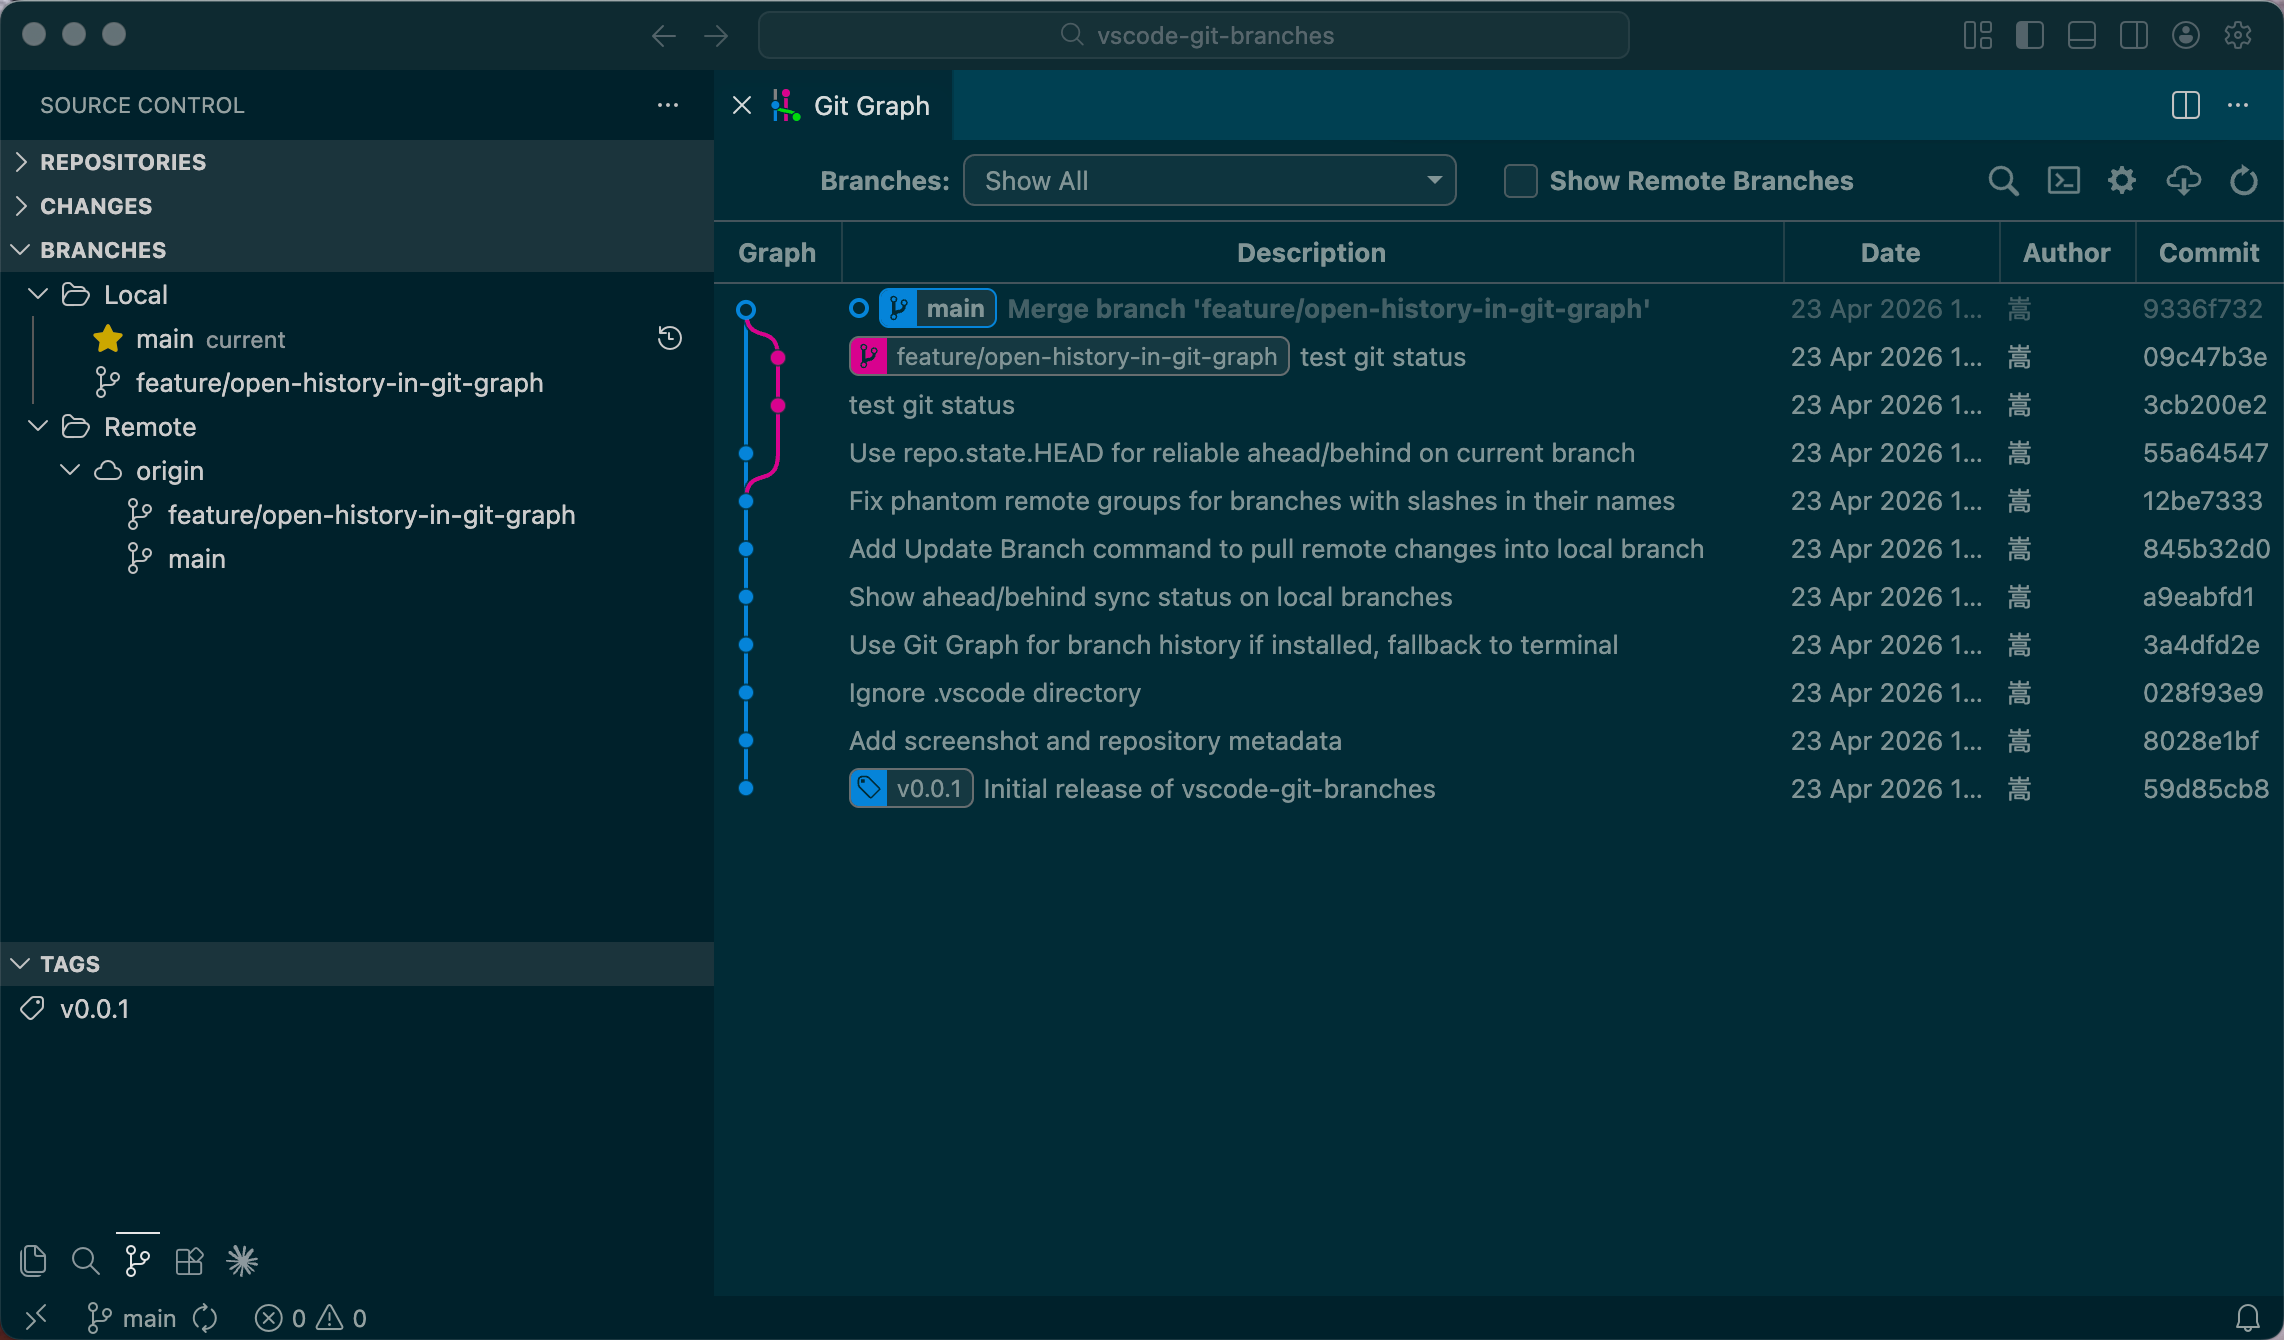
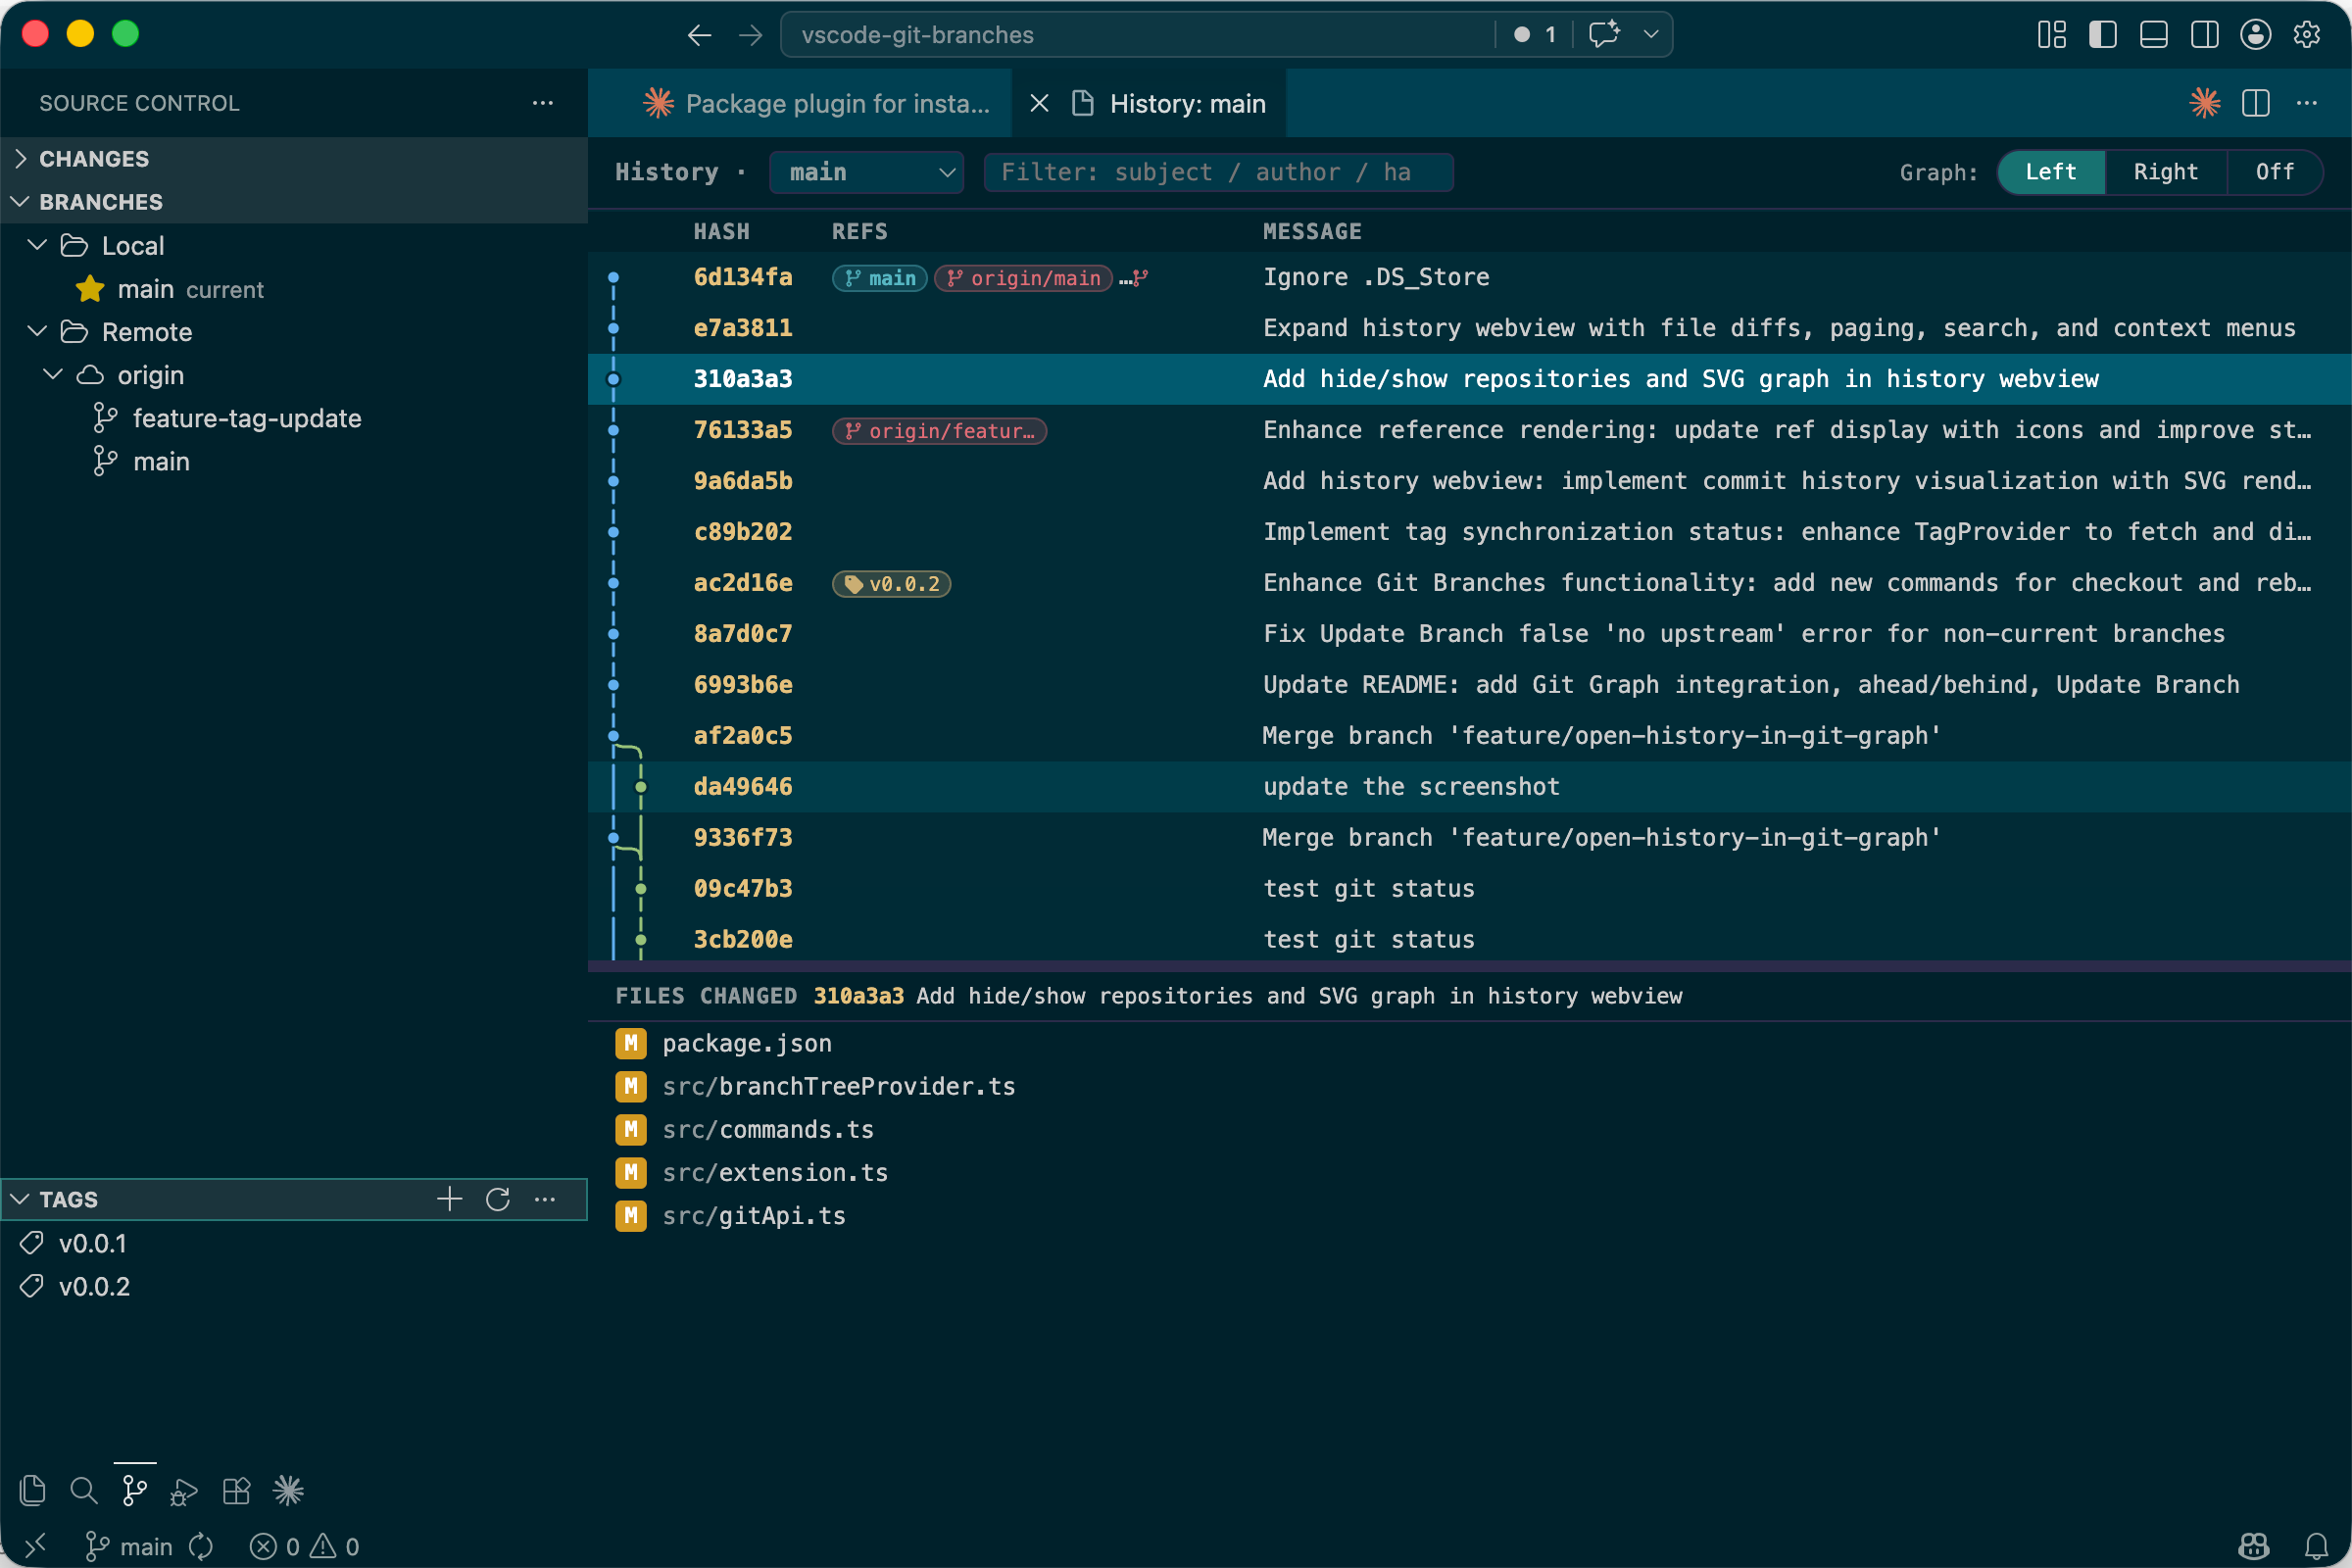
Rewrite README to document the in-extension history viewer
- Document the built-in history webview: branch dropdown with --ALL--,
  200/page Load more, Graph Left/Right/Off switch, commit-click → files
  panel, file-click → native diff, range-diff via Cmd/Ctrl-click,
  search/filter, right-click menus, splitter, and workspaceState
  persistence.
- Add tag sync indicators section.
- Add multi-repo hide/show actions.
- Update branch action tables with Compare with Current, Pull into
  Current Branch, Checkout and Rebase onto Current.
- Drop the Git Graph integration section (no longer needed).
- Refresh the screenshot.

diff --git a/README.md b/README.md
@@ -1,6 +1,6 @@
 # Git Branches
 
-A VS Code extension that adds a dedicated **Branches** and **Tags** panel to the Source Control sidebar, inspired by the branch management UI in IntelliJ IDEA.
+A VS Code extension that adds dedicated **Branches** and **Tags** panels to the Source Control sidebar, plus a built-in **branch history viewer** with a side-by-side commit graph, file diff, and pagination — inspired by the branch management UI in IntelliJ IDEA.
 
 ## Features
 
@@ -13,8 +13,8 @@ Displays local and remote branches together in a single tree, grouped by scope:
 ```
 ▼ BRANCHES
   ▼ Local
-      ★ main (current)
-        feature/login
+      ★ main (current)  ↑2 ↓1
+        feature/login   ↑3
         fix/typo
   ▼ Remote
     ▼ origin
@@ -22,8 +22,7 @@ Displays local and remote branches together in a single tree, grouped by scope:
         feature/login
 ```
 
-**Current branch** is pinned to the top with a star icon.  
-**Remote branches** are grouped under their remote name.
+**Current branch** is pinned to the top with a star icon. **Remote branches** are grouped under their remote name.
 
 #### Local branch actions (right-click)
 
@@ -31,32 +30,36 @@ Displays local and remote branches together in a single tree, grouped by scope:
 |--------|-------------|
 | Checkout | Switch to this branch |
 | Create Branch from Here | Create and checkout a new branch from this one |
-| Merge into Current | Merge this branch into the current branch |
+| Compare with Current | Open a diff between this branch and the current branch |
+| Merge into Current | Merge with strategy picker: **Merge** (commit), **Squash and Merge**, or **No Fast-Forward** |
 | Rebase onto This Branch | Rebase current branch onto this one |
+| Checkout and Rebase onto Current | Switch to this branch and rebase it onto the (previously) current branch |
 | Cherry-pick Tip Commit | Cherry-pick the latest commit of this branch |
 | Push | Push to its upstream remote (auto-detected or prompted) |
 | Set Upstream | Set the tracking remote branch |
 | Rename Branch | Rename in-place |
 | Delete Branch | Delete locally (offers force-delete if not fully merged) |
-| Update Branch | Pull latest changes from upstream (`git pull` for current branch, fast-forward for others) |
-| View History | Open branch history (see [Git Graph integration](#git-graph-integration)) |
+| Update Branch | Pull latest changes from upstream (`git pull` for current branch, fast-forward fetch for others) |
+| View History | Open the built-in history viewer (see [History viewer](#history-viewer)) |
 
 #### Remote branch actions (right-click)
 
 | Action | Description |
 |--------|-------------|
 | Checkout (Create Tracking Branch) | Create a local tracking branch |
+| Compare with Current | Open a diff between this remote branch and the current branch |
+| Pull into Current Branch... | Pull this remote branch into the current branch with strategy picker (merge / rebase / squash) |
 | Fetch | Fetch the latest state of this branch |
 | Cherry-pick Tip Commit | Cherry-pick the latest commit |
 | Delete Remote Branch | Delete on the remote (offers prune if already gone) |
-| View History | Open branch history (see [Git Graph integration](#git-graph-integration)) |
+| View History | Open the built-in history viewer |
 
 #### Local group actions (right-click on "Local")
 
 | Action | Description |
 |--------|-------------|
 | Create Branch | Create a new branch from current HEAD |
-| Stash Changes | Stash uncommitted changes |
+| Stash Changes | Stash uncommitted changes (includes untracked) |
 | Pop Stash | Pop the latest stash |
 | Apply Stash... | Pick and apply a stash |
 | Drop Stash... | Pick and drop a stash |
@@ -69,7 +72,15 @@ Displays local and remote branches together in a single tree, grouped by scope:
 
 ### Tags Panel
 
-Lists all local tags alphabetically.
+Lists all local tags alphabetically, with a sync status indicator for each tag:
+
+| Indicator | Meaning |
+|-----------|---------|
+| (no badge) | Tag exists locally and on remote, pointing at the same commit |
+| `↑ not pushed` (yellow) | Local-only tag, not yet pushed to remote |
+| `⚠ conflict` (red) | Local and remote point at different commits |
+
+Sync status is fetched in the background after the view opens; remote unreachable means no indicator is shown (rather than treating every tag as unpublished).
 
 #### Tag actions (right-click)
 
@@ -105,20 +116,171 @@ Local branches with a configured upstream show a sync status next to their name:
 
 The current branch uses live data from VS Code's git state (same source as the status bar). Other branches update after a fetch + refresh.
 
-### Git Graph integration
+### History viewer
 
-**View History** opens branch history in [Git Graph](https://marketplace.visualstudio.com/items?itemName=mhutchie.git-graph) if it is installed, providing a rich visual commit graph. Without Git Graph the history is shown as `git log --graph` output in an integrated terminal.
+Selecting **View History** on any branch opens a built-in webview with a two-pane layout: a paginated commit table on top and a "files changed" panel at the bottom.
 
-### Multi-root workspace support
+#### Layout
 
-When multiple git repositories are open, branches and tags are grouped under a repository node.
+```
+┌────────────────────────────────────────────────────────────────────────┐
+│ History · [ feature/login ▼ ]            Graph: (─Left─│─Right─│─Off─) │
+├────────────────────────────────────────────────────────────────────────┤
+│ Graph  Hash      Refs            Message              Date    Author   │
+│  ●     310a3a3   [⎇ HEAD→main]   Add hide/show repo   2d ago  song     │
+│  ●     76133a5                   Enhance refs styling 3d ago  song     │
+│  ●     9a6da5b                   Add history webview  3d ago  song     │
+│  …                                                                     │
+│                       [  Load more (200 loaded)  ]                     │
+├══════════════════════════════════════════════════════════════════════ │  ← drag splitter
+│ FILES CHANGED  76133a5  Enhance reference rendering                    │
+├────────────────────────────────────────────────────────────────────────┤
+│  [M]  src/                 branchTreeProvider.ts                       │
+│  [M]  src/                 commands.ts                                 │
+│  [A]  src/                 tagSyncBadge.ts                             │
+│  [R]  src/utils/old.ts  →  src/util/renamed.ts                         │
+└────────────────────────────────────────────────────────────────────────┘
+```
+
+#### Branch dropdown
+
+The branch name after `History ·` is a `<select>` dropdown:
+
+- Defaults to the branch you opened the viewer from
+- Lists all local branches alphabetically below
+- A `-- ALL --` entry at the bottom shows the entire repo history (equivalent to `git log --all`) — useful for finding commits not on the current branch, locating merge points, or following multiple feature branches in parallel
+
+Switching the dropdown reloads the history from the first page; the file panel resets.
+
+#### Pagination
+
+Histories load **200 commits per page**. A `Load more (N loaded)` button at the bottom of the table fetches the next batch via `git log --skip=N --max-count=200`. When you reach the start of history the button is replaced with `— end of history (N commits) —`. Per-page loading keeps very large repos responsive — the first page is usually under a second even for thousands-of-commits histories.
+
+#### Graph column controls
+
+The leftmost column is an SVG lane graph showing branch topology, color-coded per lane. A pill-shaped switch in the toolbar controls its placement:
+
+| Position | Effect |
+|----------|--------|
+| **Left** (default) | Graph rendered as first column |
+| **Right** | Graph moved to last column — text columns get priority |
+| **Off** | Graph hidden entirely |
+
+When the graph would otherwise exceed 200px of width (many parallel branches), the column itself stays at 200px and the SVG inside scrolls horizontally.
+
+Lane positions are computed incrementally across pages, so loading more commits never re-shuffles the graph for already-rendered rows.
+
+#### Commit selection → files changed
+
+Click any commit row to highlight it. The bottom panel populates with the list of files that commit modified (vs. its first parent), with color-coded status badges:
+
+| Badge | Meaning |
+|-------|---------|
+| `A` (green) | Added |
+| `M` (yellow) | Modified |
+| `D` (red) | Deleted |
+| `R` / `C` (purple) | Renamed / Copied (shows `old → new`) |
+| `T` (grey) | File type changed |
+
+For root commits (no parent), all files are shown as `A` against git's empty tree.
+
+#### Click a file → side-by-side diff
+
+Clicking a file row opens VS Code's native diff editor in a new tab:
+
+- **Left** = file content at the parent commit
+- **Right** = file content at the selected commit
+- **Added** files show an empty left side; **deleted** files show an empty right side
+- **Renamed** files diff old path → new path
+- Tab title: `path/to/file (shortHash)`, or `old → new (shortHash)` for renames
+- The diff editor honors all VS Code diff settings (`diffEditor.renderSideBySide`, `diffEditor.ignoreTrimWhitespace`, etc.)
+
+Content is served by a custom URI scheme (`gitbranches-show:`) that runs `git show <ref>:<path>` on demand. Files that don't exist at a given ref (added or deleted in this commit) return empty content, so the diff renders cleanly without "file not found" errors.
+
+#### Compare any two commits (range diff)
+
+**Cmd-click** (macOS) / **Ctrl-click** (Windows/Linux) a second commit row to switch the file panel from "this commit vs. parent" to "commit A vs. commit B". The two rows stay highlighted; the file panel shows the cumulative diff. Cmd/Ctrl-click again to return to single-commit mode.
+
+#### Search / filter
+
+A search box in the toolbar filters the loaded commits in place — matches on **subject**, **author**, **short hash**, or **full hash**. Non-matching rows are hidden (lane graph remains intact). Press **Esc** to clear.
+
+Filter operates over the commits already loaded; click `Load more` to extend the searchable set.
+
+#### Right-click menus
+
+**On a commit row:**
+
+| Item | Description |
+|------|-------------|
+| Copy hash / Copy short hash / Copy subject | Copy to clipboard |
+| Checkout this commit | Detached-HEAD checkout at this commit |
+| Create branch from here… | Prompts for a name, branches from this commit |
+| Cherry-pick | Cherry-pick this commit into current branch |
+| Revert | Create a revert commit |
+| Reset (soft) to here | `git reset --soft` (working tree + index kept) |
+| Reset (hard) to here | `git reset --hard` — confirms first (discards uncommitted changes) |
+| Open commit in browser | Open the commit page on the remote's web host — auto-detects GitHub, GitLab, Gitee, Bitbucket from the configured `origin` URL |
+
+**On a changed file row:**
+
+| Item | Description |
+|------|-------------|
+| Show file history | Open a new history panel scoped to just this file (`git log -- <file>`) |
+
+#### Resizable splitter
+
+The horizontal bar between the commit table and the files panel is draggable — pull up to give the files panel more room, pull down to focus on commits. The chosen height is remembered per workspace.
+
+#### Layout persistence
+
+Graph position (Left / Right / Off) and splitter height persist to `workspaceState`, so opening the history viewer next time uses your last layout.
+
+#### Reference badges in commit rows
+
+The "Refs" column shows pill-shaped badges for any refs pointing at that commit:
+
+- `HEAD` and `HEAD → branch` in teal
+- Local branches in green
+- Remote-tracking branches in red
+- Tags in yellow
+
+Each pill is capped at 110px with ellipsis for long names.
+
+### Multi-repo workspace support
+
+When multiple git repositories are open, branches and tags are grouped under repository nodes:
+
+```
+▼ BRANCHES
+  ▼ frontend
+    ▼ Local
+        ★ main
+    ▼ Remote
+      ▼ origin
+          main
+  ▼ backend
+    ▼ Local
+        ...
+```
+
+#### Hide / show repositories
+
+Repositories you don't actively work in can be hidden from the Branches and Tags views to reduce clutter:
+
+| Action | Where | Effect |
+|--------|-------|--------|
+| **Hide Repository** | Right-click a repo node, or panel toolbar (overflow menu) | Removes it from both panels (per-workspace, persisted in `workspaceState`) |
+| **Show Hidden Repository...** | Panel toolbar (overflow menu) | Quick-pick to re-show one of the hidden repos |
+| **Show in Git Branches** | File Explorer → right-click a folder | If the folder is a git repo (even one VS Code's git extension hasn't discovered yet), opens it and adds it to the Branches view |
+
+`Show in Git Branches` also makes sub-folder repositories discoverable — useful for monorepos where nested `.git` directories aren't always picked up automatically.
 
 ## Requirements
 
 - VS Code `1.85.0` or later
 - The built-in **Git** extension must be enabled
 - Git installed and accessible (uses the path configured in `git.path`)
-- (Optional) [Git Graph](https://marketplace.visualstudio.com/items?itemName=mhutchie.git-graph) for graphical branch history
 
 ## Installation
 
@@ -128,6 +290,7 @@ When multiple git repositories are open, branches and tags are grouped under a r
 git clone https://github.com/your-username/vscode-git-branches.git
 cd vscode-git-branches
 npm install
+npm run compile
 npx @vscode/vsce package --allow-missing-repository
 code --install-extension vscode-git-branches-0.0.1.vsix
 ```
@@ -138,15 +301,17 @@ Then reload VS Code (`Developer: Reload Window`).
 
 ```bash
 npm install       # install dependencies
-npm run compile   # build once
+npm run compile   # build once (esbuild → out/extension.js)
 npm run watch     # build in watch mode
-npm run typecheck # type-check without emitting
+npm run typecheck # tsc --noEmit (esbuild does NOT type-check)
 ```
 
 Press `F5` in VS Code to launch an Extension Development Host.
 
 ## How It Works
 
-This extension delegates all git operations to the built-in `vscode.git` extension API (v1) where possible. Operations not exposed by the public API (rebase, rename, stash, cherry-pick, delete remote branch, tags) are executed via `child_process.execFile` using the git binary configured in `git.path`.
+This extension delegates git operations to the built-in `vscode.git` extension API (v1) wherever possible (`checkout`, `merge`, `push`, `pull`, `fetch`, `createBranch`, `deleteBranch`, `getBranches`, `getRefs`). Operations not exposed by the public API — rebase, cherry-pick, rename, stash, delete remote branch, tag manipulation, `--squash` / `--no-ff` merge strategies, `for-each-ref`, `ls-remote`, paged `git log`, `git show` for diff content — are executed via `child_process.execFile` using the binary at `git.path`.
 
 After each operation the built-in git extension is notified via `git.refresh` so its internal state stays in sync.
+
+The history viewer is a webview with a custom `TextDocumentContentProvider` (scheme `gitbranches-show:`) that serves commit-time file content directly via `git show <ref>:<path>`, bypassing the built-in `git:` scheme to avoid edge cases with non-ASCII paths, nested submodule repos, and missing-at-ref lookups.